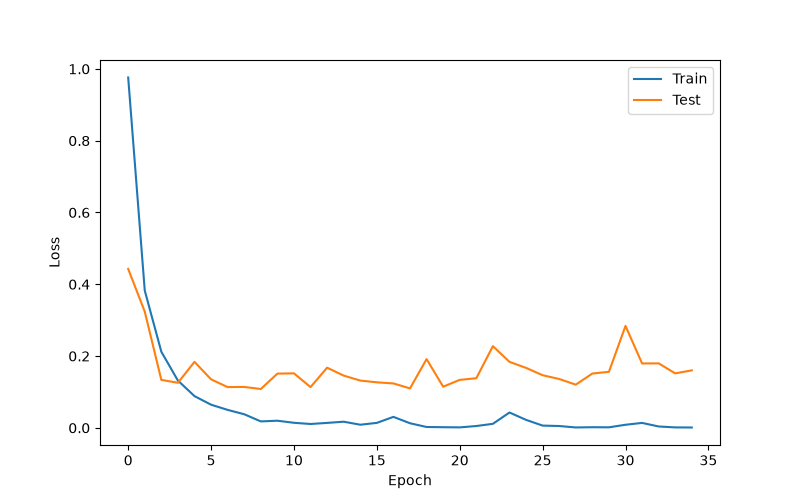
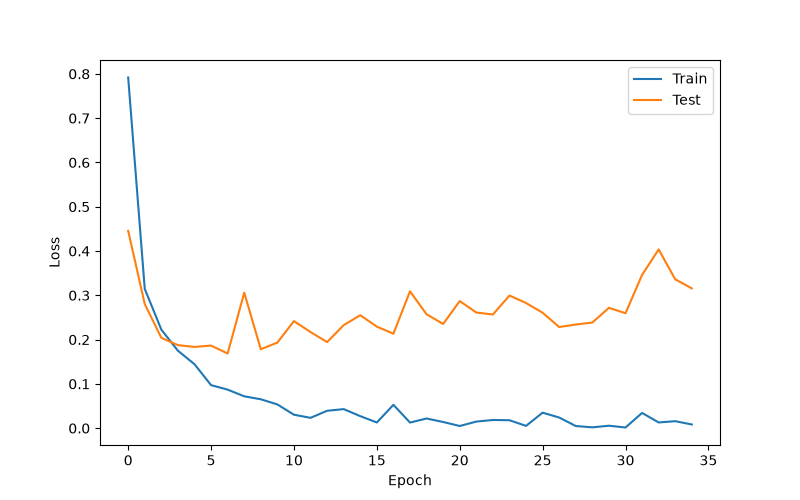
final model

diff --git a/CNN_model.py b/CNN_model.py
@@ -135,89 +135,53 @@ class CNN(nn.Module):
         return x
 
 
-# create model
-model = CNN().to(device)
+def main():
 
-print(model)
+    # create model
+    model = CNN().to(device)
 
-summary(model, input_size=(1, 3, 231, 310))
+    print(model)
 
-# loss
-criterion = nn.CrossEntropyLoss()
+    summary(model, input_size=(1, 3, 231, 310))
 
-# optimizer
-optimizer = optim.Adam(model.parameters(), lr=LR)
+    # loss
+    criterion = nn.CrossEntropyLoss()
 
+    # optimizer
+    optimizer = optim.Adam(model.parameters(), lr=LR)
 
-# training and testing
-# epoch
-def train_one_epoch(model, loader, criterion, optimizer, device):
-    """
-    Train one epoch
-    Return:
-        avg_loss: average training loss
-        avg_acc : average training accuracy
-    """
+    # training and testing
 
-    model.train()
+    # epoch
+    def train_one_epoch(model, loader, criterion, optimizer, device):
+        """
+        Train one epoch
+        Return:
+            avg_loss: average training loss
+            avg_acc : average training accuracy
+        """
 
-    total_loss = 0.0
-    correct = 0
-    total = 0
+        model.train()
 
-    for images, labels in loader:
-
-        images = images.to(device)
-        labels = labels.to(device)
-
-        # Forward
-        outputs = model(images)
-        loss = criterion(outputs, labels)
-
-        # Backward
-        optimizer.zero_grad()
-        loss.backward()
-        optimizer.step()
-
-        # Statistics
-        total_loss += loss.item()
-
-        _, predicted = torch.max(outputs.data, 1)
-
-        total += labels.size(0)
-        correct += (predicted == labels).sum().item()
-
-    avg_loss = total_loss / len(loader)
-    avg_acc = correct / total
-
-    return avg_loss, avg_acc
-
-
-def evaluate(model, loader, criterion, device):
-    """
-    Evaluate one epoch
-    Return:
-        avg_loss
-        avg_acc
-    """
-
-    model.eval()
-
-    total_loss = 0.0
-    correct = 0
-    total = 0
-
-    with torch.no_grad():
+        total_loss = 0.0
+        correct = 0
+        total = 0
 
         for images, labels in loader:
 
             images = images.to(device)
             labels = labels.to(device)
 
+            # Forward
             outputs = model(images)
-
             loss = criterion(outputs, labels)
 
+            # Backward
+            optimizer.zero_grad()
+            loss.backward()
+            optimizer.step()
+
+            # Statistics
             total_loss += loss.item()
 
             _, predicted = torch.max(outputs.data, 1)
@@ -225,74 +189,112 @@ def evaluate(model, loader, criterion, device):
             total += labels.size(0)
             correct += (predicted == labels).sum().item()
 
-    avg_loss = total_loss / len(loader)
-    avg_acc = correct / total
+        avg_loss = total_loss / len(loader)
+        avg_acc = correct / total
 
-    return avg_loss, avg_acc
+        return avg_loss, avg_acc
+
+    def evaluate(model, loader, criterion, device):
+        """
+        Evaluate one epoch
+        Return:
+            avg_loss
+            avg_acc
+        """
+
+        model.eval()
+
+        total_loss = 0.0
+        correct = 0
+        total = 0
+
+        with torch.no_grad():
+
+            for images, labels in loader:
+
+                images = images.to(device)
+                labels = labels.to(device)
+
+                outputs = model(images)
+
+                loss = criterion(outputs, labels)
+
+                total_loss += loss.item()
+
+                _, predicted = torch.max(outputs.data, 1)
+
+                total += labels.size(0)
+                correct += (predicted == labels).sum().item()
+
+        avg_loss = total_loss / len(loader)
+        avg_acc = correct / total
+
+        return avg_loss, avg_acc
+
+    train_loss_history = []
+    test_loss_history = []
+
+    train_acc_history = []
+    test_acc_history = []
+
+    for epoch in range(EPOCHS):
+
+        train_loss, train_acc = train_one_epoch(
+            model, train_loader, criterion, optimizer, device
+        )
+
+        test_loss, test_acc = evaluate(model, test_loader, criterion, device)
+
+        train_loss_history.append(train_loss)
+        test_loss_history.append(test_loss)
+
+        train_acc_history.append(train_acc)
+        test_acc_history.append(test_acc)
+
+        print(
+            f"Epoch [{epoch+1}/{EPOCHS}] "
+            f"Train Loss: {train_loss:.4f} "
+            f"Train Acc: {train_acc:.4f} "
+            f"Test Loss: {test_loss:.4f} "
+            f"Test Acc: {test_acc:.4f}"
+        )
+
+    # loss curve
+    plt.figure(figsize=(8, 5))
+
+    plt.plot(train_loss_history, label="Train")
+
+    plt.plot(test_loss_history, label="Test")
+
+    plt.xlabel("Epoch")
+
+    plt.ylabel("Loss")
+
+    plt.legend()
+
+    plt.savefig("Loss_3_dropoutFC1.png")
+    plt.show()
+
+    # accu curve
+    plt.figure(figsize=(8, 5))
+
+    plt.plot(train_acc_history, label="Train")
+
+    plt.plot(test_acc_history, label="Test")
+
+    plt.xlabel("Epoch")
+
+    plt.ylabel("Accuracy")
+
+    plt.legend()
+
+    plt.savefig("Accu_3_dropoutFC1.png")
+    plt.show()
+
+    torch.save(model.state_dict(), "cnn_model_3_dropout.pth")
+
+    print("Model saved successfully!")
 
 
-train_loss_history = []
-test_loss_history = []
-
-train_acc_history = []
-test_acc_history = []
-
-for epoch in range(EPOCHS):
-
-    train_loss, train_acc = train_one_epoch(
-        model, train_loader, criterion, optimizer, device
-    )
-
-    test_loss, test_acc = evaluate(model, test_loader, criterion, device)
-
-    train_loss_history.append(train_loss)
-    test_loss_history.append(test_loss)
-
-    train_acc_history.append(train_acc)
-    test_acc_history.append(test_acc)
-
-    print(
-        f"Epoch [{epoch+1}/{EPOCHS}] "
-        f"Train Loss: {train_loss:.4f} "
-        f"Train Acc: {train_acc:.4f} "
-        f"Test Loss: {test_loss:.4f} "
-        f"Test Acc: {test_acc:.4f}"
-    )
-
-# loss curve
-plt.figure(figsize=(8, 5))
-
-plt.plot(train_loss_history, label="Train")
-
-plt.plot(test_loss_history, label="Test")
-
-plt.xlabel("Epoch")
-
-plt.ylabel("Loss")
-
-plt.legend()
-
-plt.savefig("Loss_3_dropoutFC1.png")
-plt.show()
-
-
-# accu curve
-plt.figure(figsize=(8, 5))
-
-plt.plot(train_acc_history, label="Train")
-
-plt.plot(test_acc_history, label="Test")
-
-plt.xlabel("Epoch")
-
-plt.ylabel("Accuracy")
-
-plt.legend()
-
-plt.savefig("Accu_3_dropoutFC1.png")
-plt.show()
-
-
-torch.save(model.state_dict(), "cnn_model_3_dropout.pth")
-
-print("Model saved successfully!")
+if __name__ == "__main__":
+    main()

diff --git a/predict_CNN.py b/predict_CNN.py
@@ -18,9 +18,7 @@ import matplotlib.pyplot as plt
 # Import CNN class
 from CNN_model import CNN
 
-# ===============================
 # Device
-# ===============================
 device = torch.device(
     "cuda"
     if torch.cuda.is_available()
@@ -29,28 +27,25 @@ device = torch.device(
 
 print("Device:", device)
 
-# ===============================
-# Transform
-# ===============================
+IMAGE_SIZE = (231, 310)
 transform = transforms.Compose(
     [
+        transforms.Resize(IMAGE_SIZE),
         transforms.ToTensor(),
+        transforms.Normalize(mean=[0.5, 0.5, 0.5], std=[0.5, 0.5, 0.5]),
     ]
 )
 
-# ===============================
 # Load dataset
-# ===============================
+
 dataset = datasets.ImageFolder("cwt_images", transform=transform)
 
 class_names = dataset.classes
 
 print("Classes:", class_names)
 
-# ===============================
 # Split train / test
 # (same ratio as training)
-# ===============================
 train_size = int(0.8 * len(dataset))
 test_size = len(dataset) - train_size
 
@@ -60,9 +55,8 @@ train_dataset, test_dataset = random_split(
 
 test_loader = DataLoader(test_dataset, batch_size=16, shuffle=False)
 
-# ===============================
+
 # Load model
-# ===============================
 model = CNN().to(device)
 
 model.load_state_dict(torch.load("cnn_model_3_dropout.pth", map_location=device))
@@ -71,9 +65,8 @@ model.eval()
 
 print("Model loaded successfully.\n")
 
-# ===============================
+
 # Prediction
-# ===============================
 all_preds = []
 all_labels = []
 
@@ -90,9 +83,8 @@ with torch.no_grad():
         all_preds.extend(predicted.cpu().numpy())
         all_labels.extend(labels.numpy())
 
-# ===============================
+
 # Show first 20 predictions
-# ===============================
 print("=" * 50)
 print("Prediction Results")
 print("=" * 50)
@@ -105,20 +97,19 @@ for i in range(min(20, len(all_preds))):
         f"Predict: {class_names[all_preds[i]]}"
     )
 
-# ===============================
+
 # Classification Report
-# ===============================
 print("\nClassification Report\n")
 
 print(classification_report(all_labels, all_preds, target_names=class_names))
 
-# ===============================
+
 # Confusion Matrix
-# ===============================
 cm = confusion_matrix(all_labels, all_preds)
 
 disp = ConfusionMatrixDisplay(confusion_matrix=cm, display_labels=class_names)
 
 disp.plot(cmap="Blues")
 plt.title("Confusion Matrix")
+plt.savefig("confusion_matrix.png")
 plt.show()